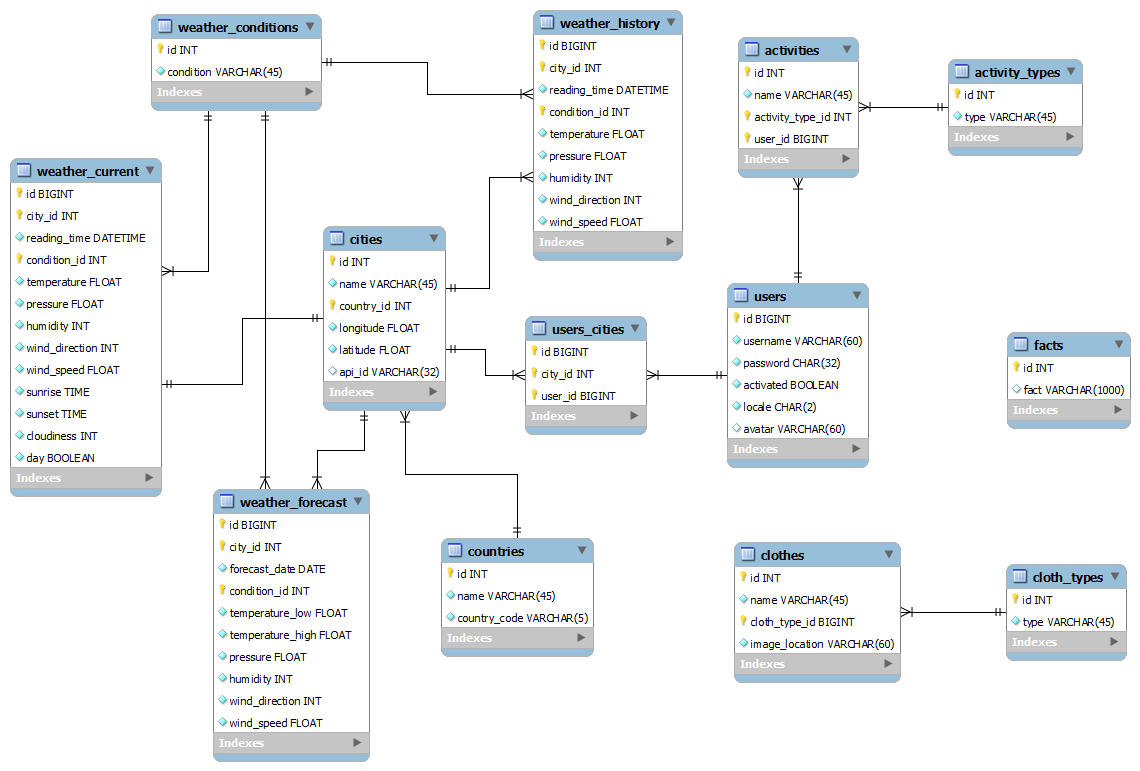
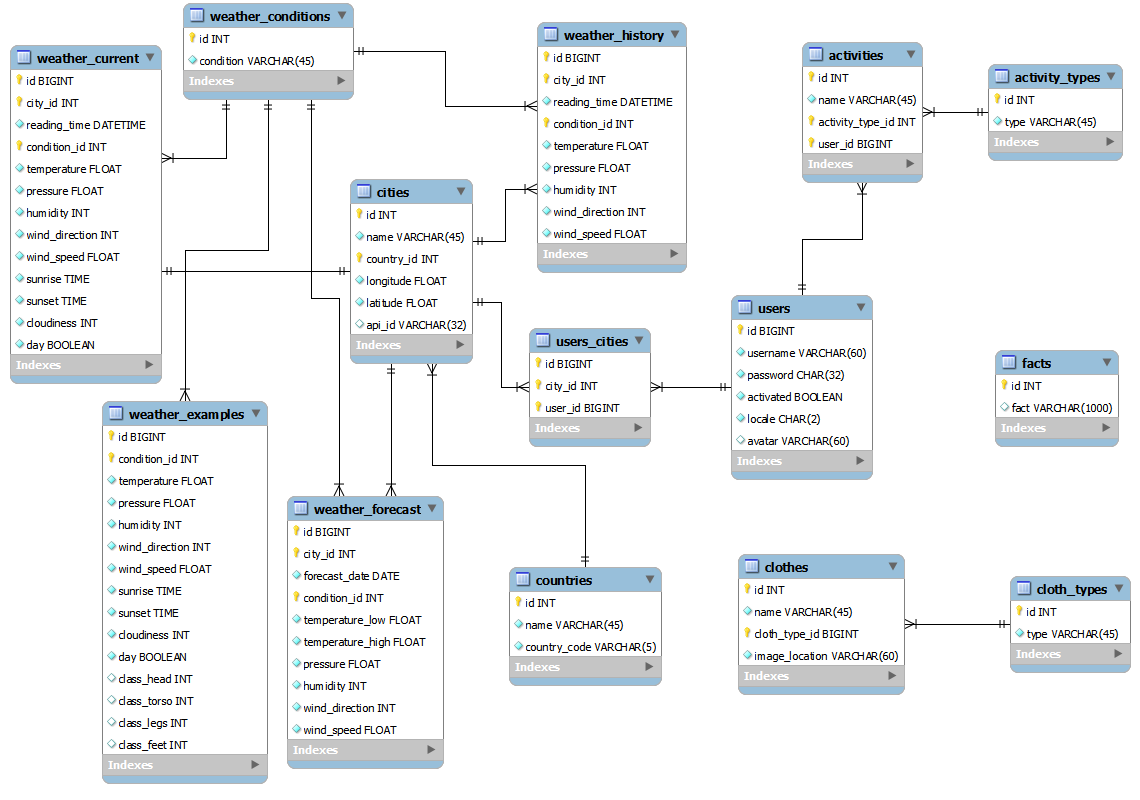
Database update
* new database table 'weather_examples'
* added database migration for weather examples
* updated database model image

diff --git a/laravel/app/database/migrations/2014_05_23_063953_add_table_weather_examples.php b/laravel/app/database/migrations/2014_05_23_063953_add_table_weather_examples.php
@@ -1,0 +1,43 @@
+<?php
+
+use Illuminate\Database\Schema\Blueprint;
+use Illuminate\Database\Migrations\Migration;
+
+class AddTableWeatherExamples extends Migration {
+
+	/**
+	 * Run the migrations.
+	 *
+	 * @return void
+	 */
+	public function up()
+	{
+		Schema::create('weather_examples', function(Blueprint $t)
+        {
+            $t->bigIncrements('id');
+			$t->integer('condition_id')->references('id')->on('weather_conditions');
+			$t->float('temperature');
+			$t->float('pressure');
+			$t->integer('humidity');
+			$t->integer('wind_direction');
+			$t->float('wind_speed');
+			$t->time('sunrise');
+			$t->time('sunset');
+			$t->integer('class_head');
+			$t->integer('class_torso');
+			$t->integer('class_legs');
+			$t->integer('class_feet');
+        });
+	}
+
+	/**
+	 * Reverse the migrations.
+	 *
+	 * @return void
+	 */
+	public function down()
+	{
+		Schema::drop('weather_examples');
+	}
+
+}
